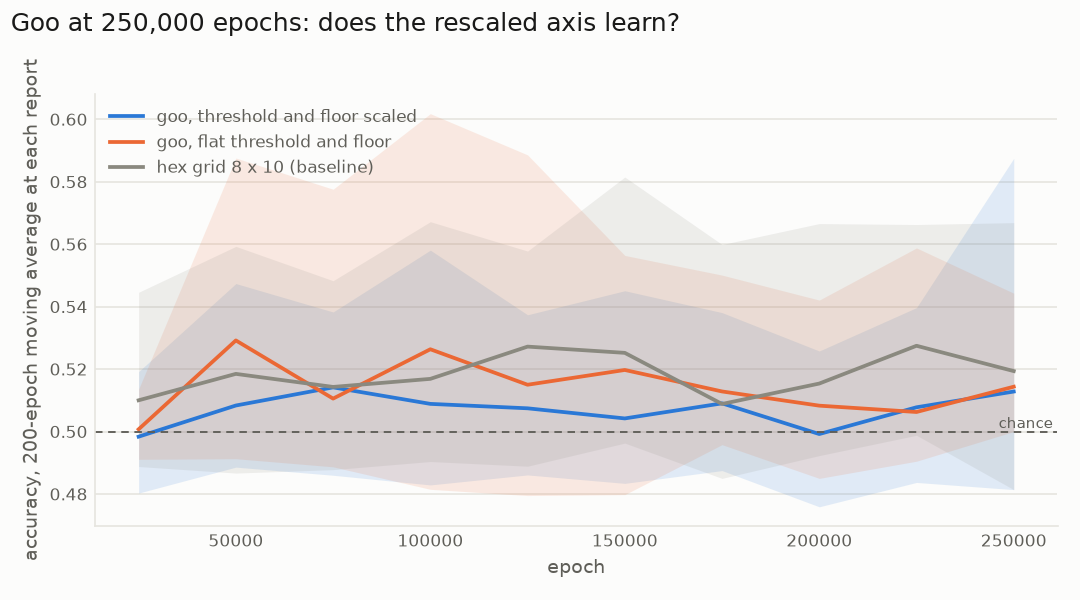
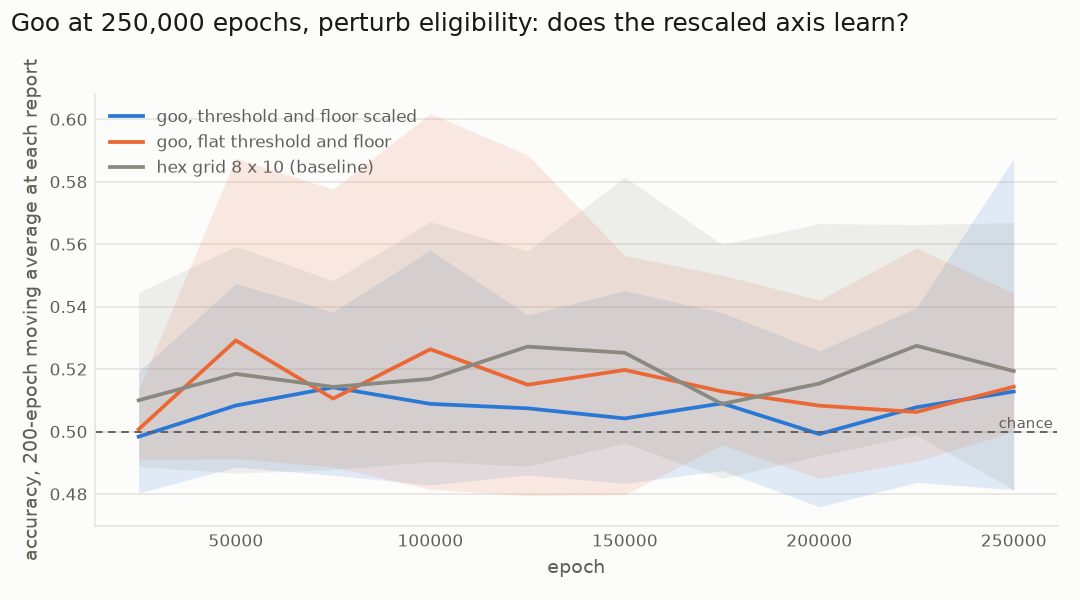
A sweep's log names its rule, and the report takes a name
Two sweeps now differ only in the eligibility, so the seed-batch header says
which rule and which eligibility an arm ran, next to which axis it ran on.
docs/goo-250k-report.py takes --name and --eligibility, so the hebb sweep
writes docs/goo-250k-hebb.md beside the perturb one rather than over it.

Changed region(s): [[0.275, 0.0, 0.8556, 0.06]]

diff --git a/docs/goo-250k-report.py b/docs/goo-250k-report.py
@@ -1,7 +1,8 @@
 #!/usr/bin/env python3
-"""Read the goo-250k arms off disk and write docs/goo-250k.md and docs/goo-250k-score.png.
+"""Read a goo-250k sweep's arms off disk and write docs/<name>.md and docs/<name>-score.png.
 
-    .venv/bin/python docs/goo-250k-report.py
+    .venv/bin/python docs/goo-250k-report.py                    # runs/goo-250k, the perturb eligibility
+    .venv/bin/python docs/goo-250k-report.py --name goo-250k-hebb --eligibility hebb
 
 Three arms, ten seeds each, paired on the input stream (AUTHORITY.md §4.5):
 the shipped goo (threshold and floor scaled with fan-in, §5.2), the same goo
@@ -17,8 +18,10 @@ import math
 import statistics
 from pathlib import Path
 
+import argparse
+
 ROOT = Path(__file__).resolve().parent.parent
-RUNS = ROOT / "runs" / "goo-250k"
+RUNS = ROOT / "runs" / "goo-250k"  # overridden by --name
 SEEDS = range(1, 11)
 ARMS = [  # file stem -> how it is named in the report, and its colour in the figure
     ("scaled", "goo, threshold and floor scaled", "#2a78d6"),
@@ -81,22 +84,31 @@ def paired_t(a: list[float], b: list[float]) -> tuple[float, float]:
 
 
 def main() -> None:
+    global RUNS
+    parser = argparse.ArgumentParser(description=__doc__.split("\n")[0])
+    parser.add_argument("--name", default="goo-250k", help="runs/<name> in, docs/<name>.md and docs/<name>-score.png out")
+    parser.add_argument("--eligibility", default="perturb", choices=("perturb", "hebb"), help="for the report's text only")
+    args = parser.parse_args()
+    RUNS = ROOT / "runs" / args.name
+    sigma = "σ 0.1" if args.eligibility == "perturb" else "σ 0, as the Teacher sets it"
     arms = {stem: load(stem) for stem, _, _ in ARMS}
     recent = {stem: [r["last_tenth"] for r in rows] for stem, rows in arms.items()}
     to_date = {stem: [r["accuracy_to_date"] for r in rows] for stem, rows in arms.items()}
     epochs = arms["scaled"][0]["epochs"]
 
     lines = [
-        f"# Sweep goo-250k (September 14, 2026)",
+        f"# Sweep {args.name} (September 14, 2026)",
         "",
         f"Does goo learn once its potential axis is scaled with fan-in (AUTHORITY.md §5.2)? "
         f"Three arms, {len(list(SEEDS))} seeds each, {epochs:,} epochs per run, the reversal problem, "
-        f"the array engine, everything else at the defaults in `constants.py`. Every arm at seed *s* is "
-        f"given the same input stream (§4.5), so the arms are paired epoch by epoch and not merely on average.",
+        f"the reinforce rule with the **{args.eligibility}** eligibility ({sigma}), the array engine, "
+        f"everything else at the defaults in `constants.py`. Every arm at seed *s* is given the same "
+        f"input stream (§4.5), so the arms are paired epoch by epoch and not merely on average.",
         "",
-        "Driver: `walnutbutter --goo --seeds 10 --seed 1 --input-seed 1 --epochs 250000 --engine arrays`, "
-        "once per arm; report: `docs/goo-250k-report.py`; figure: `goo-250k-score.png`. Every run's "
-        "checkpoint and log is under `runs/goo-250k/` (not in git).",
+        f"Driver: `walnutbutter --goo --eligibility {args.eligibility} --seeds 10 --seed 1 --input-seed 1 "
+        f"--epochs 250000 --engine arrays`, once per arm; report: `docs/goo-250k-report.py --name {args.name} "
+        f"--eligibility {args.eligibility}`; figure: `{args.name}-score.png`. Every run's checkpoint and log "
+        f"is under `runs/{args.name}/` (not in git).",
         "",
         "| arm | accuracy, last 25,000 epochs | range over seeds | accuracy, to date | stuck on | stuck off |",
         "|---|---|---|---|---|---|",
@@ -122,12 +134,12 @@ def main() -> None:
         lines.append(f"| {seed} | " + " | ".join(f"{recent[s][i]:.3f}" for s, _, _ in ARMS) + " |")
     lines.append("")
 
-    (ROOT / "docs" / "goo-250k.md").write_text("\n".join(lines) + "\n")
-    plot(arms)
+    (ROOT / "docs" / f"{args.name}.md").write_text("\n".join(lines) + "\n")
+    plot(arms, args.name, args.eligibility)
     print("\n".join(lines))
 
 
-def plot(arms: dict) -> None:
+def plot(arms: dict, name: str, eligibility: str) -> None:
     import matplotlib
     matplotlib.use("Agg")
     import matplotlib.pyplot as plt
@@ -158,9 +170,10 @@ def plot(arms: dict) -> None:
     ax.set_xlabel("epoch", color=INK2, fontsize=9)
     ax.set_ylabel("accuracy, 200-epoch moving average at each report", color=INK2, fontsize=9)
     ax.legend(loc="upper left", frameon=False, fontsize=8, labelcolor=INK2)
-    fig.suptitle("Goo at 250,000 epochs: does the rescaled axis learn?", x=0.01, ha="left", color=INK, fontsize=12)
+    fig.suptitle(f"Goo at 250,000 epochs, {eligibility} eligibility: does the rescaled axis learn?",
+                 x=0.01, ha="left", color=INK, fontsize=12)
     fig.tight_layout(rect=(0, 0, 1, 0.96))
-    fig.savefig(ROOT / "docs" / "goo-250k-score.png", facecolor=SURFACE)
+    fig.savefig(ROOT / "docs" / f"{name}-score.png", facecolor=SURFACE)
     plt.close(fig)
 
 

diff --git a/tests/test_goo.py b/tests/test_goo.py
@@ -288,8 +288,10 @@ def test_any_container_can_be_asked_to_scale_from_the_command_line(capsys):
 def test_a_seed_batchs_header_says_which_axis_the_arm_ran_on(capsys):
     """A sweep's own log should identify its arm without cross-referencing the command that made it."""
     assert cli_main(["--goo", "20", "--seeds", "2", "--seed", "1", "--epochs", "5", "--no-save"]) == 0
-    assert "fully connected goo, 8 in and 8 out, fan-in scaled" in capsys.readouterr().err
-    assert cli_main(["--goo", "20", "--no-scale-with-fan-in", "--seeds", "2", "--seed", "1", "--epochs", "5", "--no-save"]) == 0
-    assert "flat threshold and floor" in capsys.readouterr().err
+    err = capsys.readouterr().err
+    assert "fully connected goo, 8 in and 8 out, fan-in scaled, reinforce rule with the perturb eligibility" in err
+    assert cli_main(["--goo", "20", "--no-scale-with-fan-in", "--eligibility", "hebb", "--seeds", "2", "--seed", "1",
+                     "--epochs", "5", "--no-save"]) == 0
+    assert "flat threshold and floor, reinforce rule with the hebb eligibility" in capsys.readouterr().err
     assert cli_main(["--seeds", "2", "--seed", "1", "--epochs", "5", "--no-save"]) == 0
     assert "hex grid, omega 0.2, flat threshold and floor" in capsys.readouterr().err

diff --git a/src/walnutbutter/cli.py b/src/walnutbutter/cli.py
@@ -1254,6 +1254,7 @@ def _run_seeds(args: argparse.Namespace) -> int:
     # say which axis the arm ran on, so a sweep's own log identifies it (§5.2)
     scaled = args.scale_with_fan_in is not False if args.goo is not None else bool(args.scale_with_fan_in)
     shape += ", fan-in scaled" if scaled else ", flat threshold and floor"
+    shape += f", {args.rule} rule" + (f" with the {args.eligibility} eligibility" if args.rule == "reinforce" else "")
     print(
         f"{args.seeds} seeds from {base} on {workers} cores, {args.epochs:,} epochs each, {shape}",
         file=sys.stderr,

diff --git a/docs/goo-250k.md b/docs/goo-250k.md
@@ -1,8 +1,8 @@
 # Sweep goo-250k (September 14, 2026)
 
-Does goo learn once its potential axis is scaled with fan-in (AUTHORITY.md §5.2)? Three arms, 10 seeds each, 250,000 epochs per run, the reversal problem, the array engine, everything else at the defaults in `constants.py`. Every arm at seed *s* is given the same input stream (§4.5), so the arms are paired epoch by epoch and not merely on average.
+Does goo learn once its potential axis is scaled with fan-in (AUTHORITY.md §5.2)? Three arms, 10 seeds each, 250,000 epochs per run, the reversal problem, the reinforce rule with the **perturb** eligibility (σ 0.1), the array engine, everything else at the defaults in `constants.py`. Every arm at seed *s* is given the same input stream (§4.5), so the arms are paired epoch by epoch and not merely on average.
 
-Driver: `walnutbutter --goo --seeds 10 --seed 1 --input-seed 1 --epochs 250000 --engine arrays`, once per arm; report: `docs/goo-250k-report.py`; figure: `goo-250k-score.png`. Every run's checkpoint and log is under `runs/goo-250k/` (not in git).
+Driver: `walnutbutter --goo --eligibility perturb --seeds 10 --seed 1 --input-seed 1 --epochs 250000 --engine arrays`, once per arm; report: `docs/goo-250k-report.py --name goo-250k --eligibility perturb`; figure: `goo-250k-score.png`. Every run's checkpoint and log is under `runs/goo-250k/` (not in git).
 
 | arm | accuracy, last 25,000 epochs | range over seeds | accuracy, to date | stuck on | stuck off |
 |---|---|---|---|---|---|
